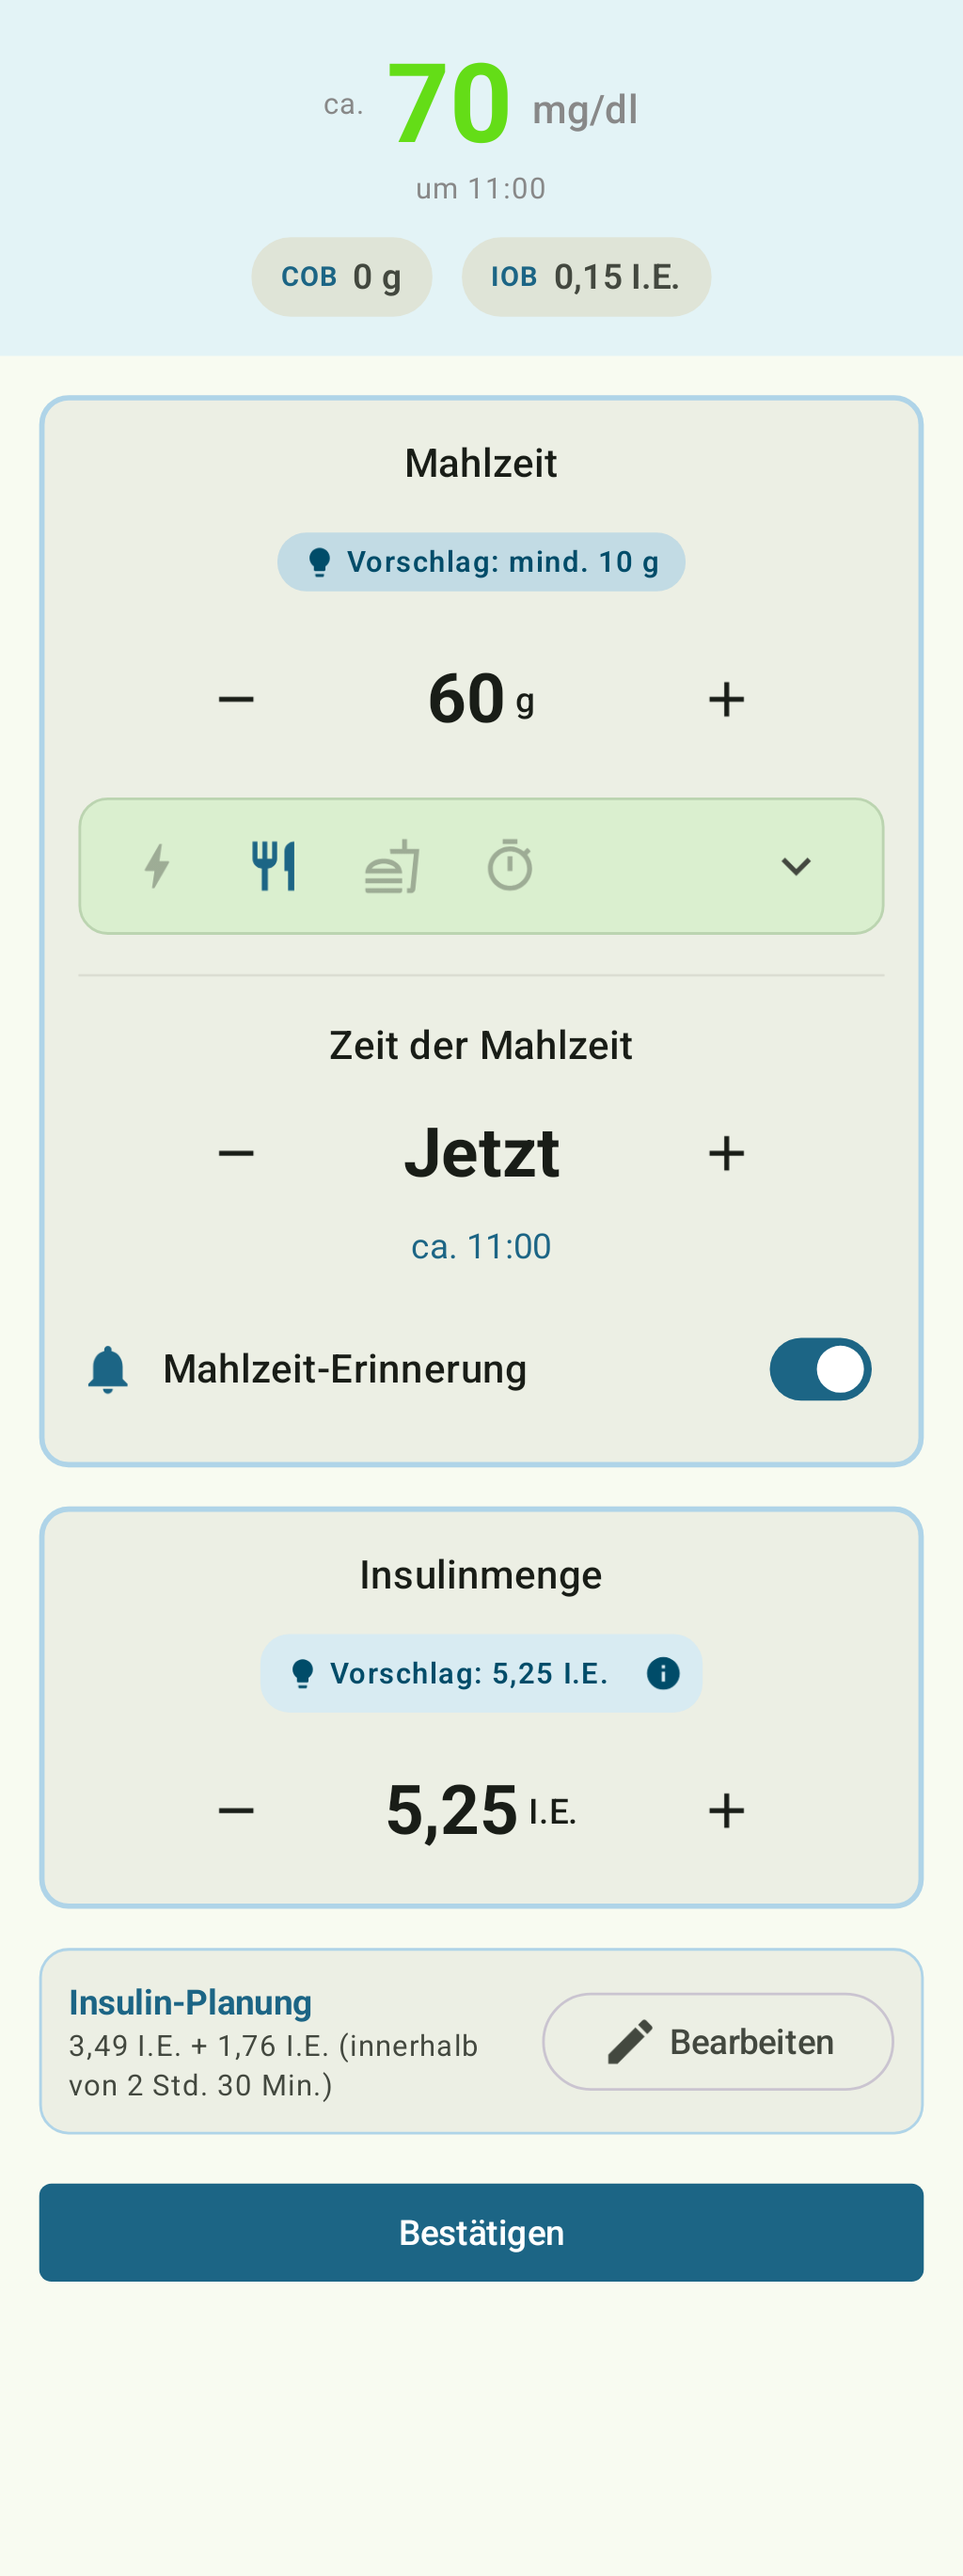
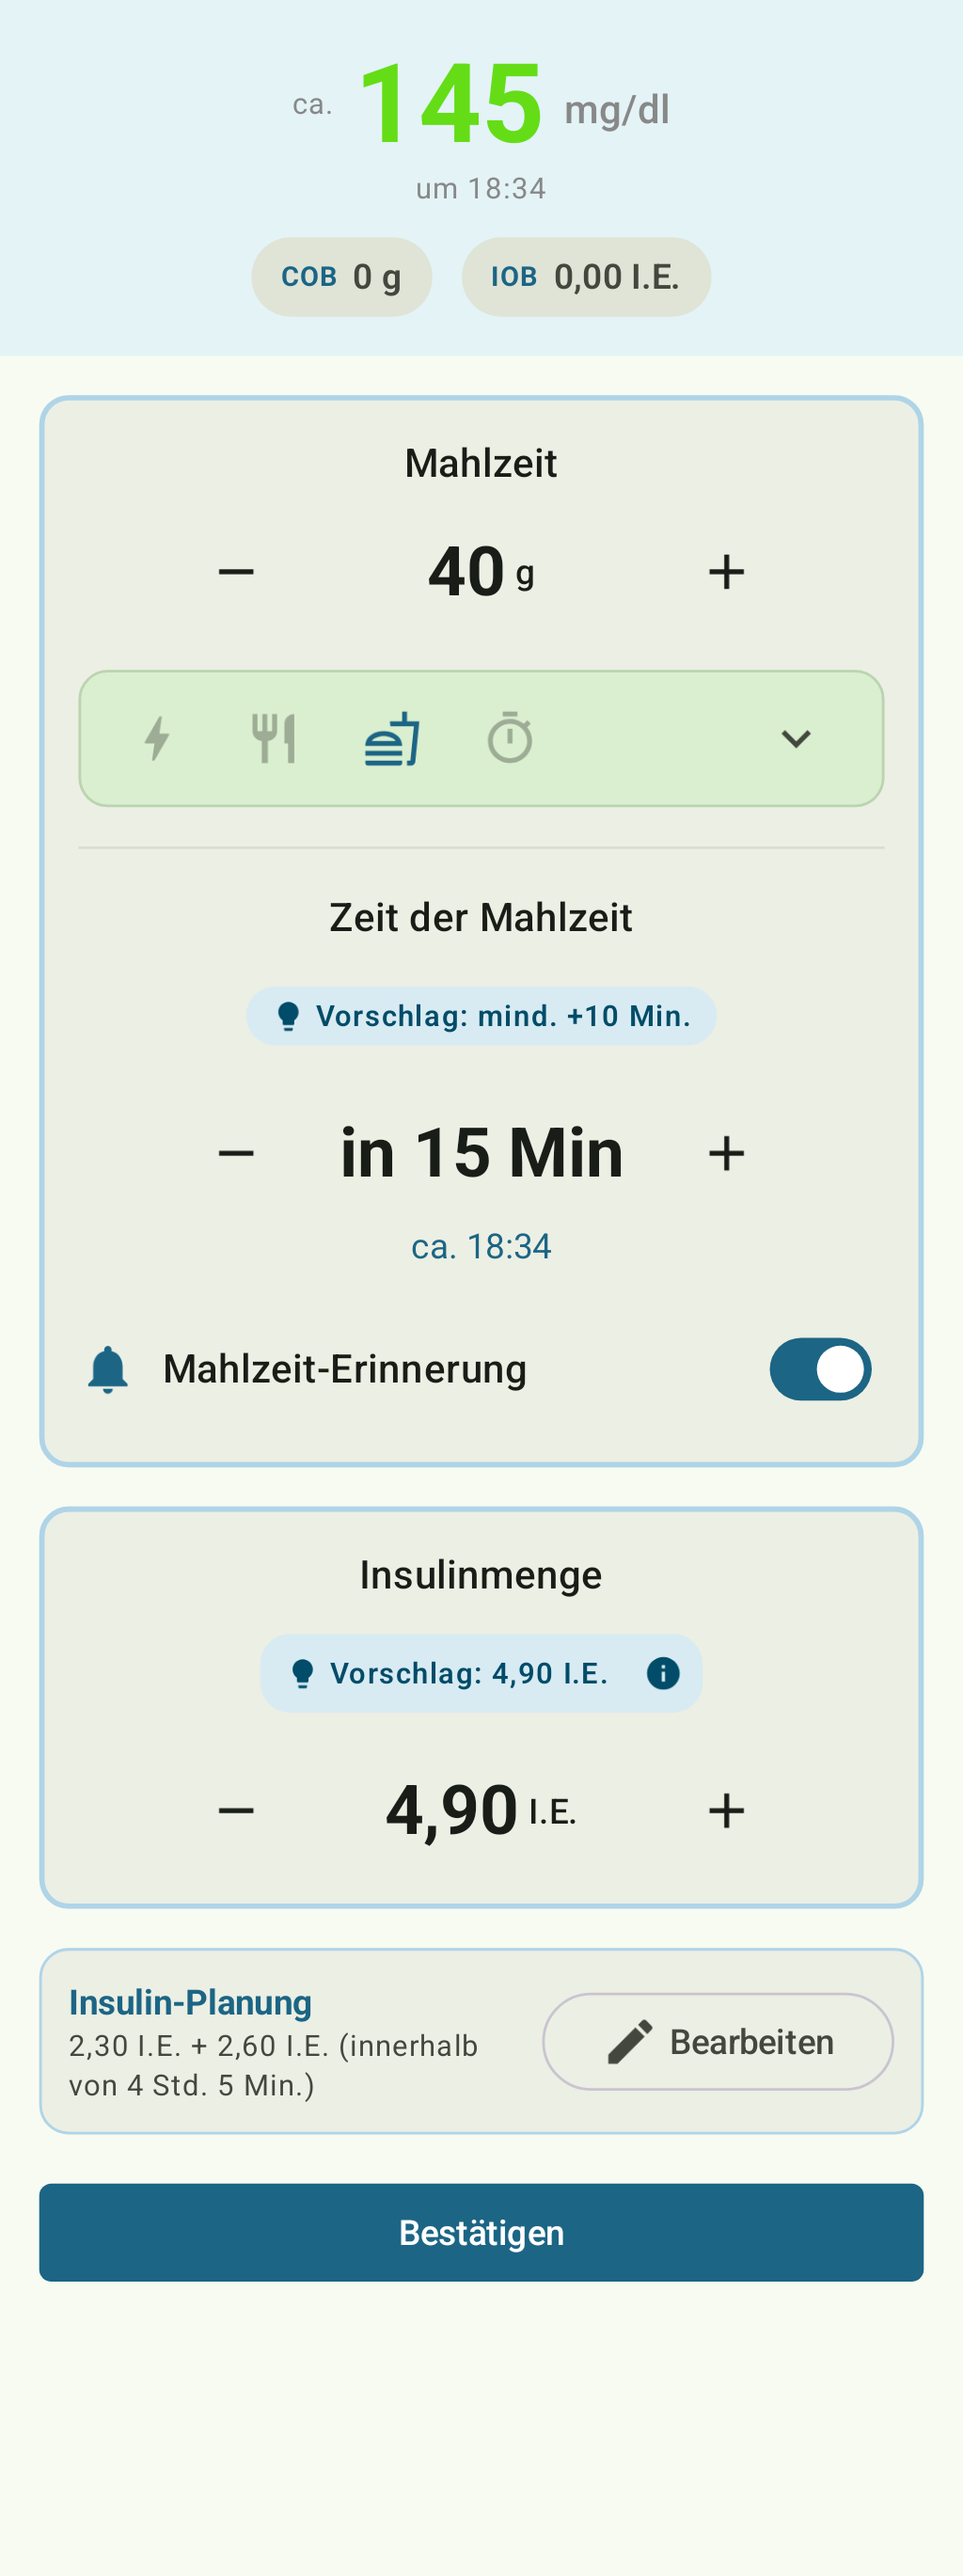
Improve screenshots of MealCorrectionBolusScreen

diff --git a/ui/src/main/kotlin/de/dh/daps/ui/screens/mealcorrectionbolus/MealCorrectionBolusScreen.kt b/ui/src/main/kotlin/de/dh/daps/ui/screens/mealcorrectionbolus/MealCorrectionBolusScreen.kt
@@ -46,8 +46,8 @@ import androidx.compose.runtime.setValue
 import androidx.compose.ui.Alignment
 import androidx.compose.ui.Modifier
 import androidx.compose.ui.graphics.Color
-import androidx.compose.ui.platform.LocalContext
 import androidx.compose.ui.graphics.RectangleShape
+import androidx.compose.ui.platform.LocalContext
 import androidx.compose.ui.res.stringResource
 import androidx.compose.ui.text.font.FontWeight
 import androidx.compose.ui.text.style.Hyphens
@@ -69,8 +69,8 @@ import de.dh.daps.core.aps.TreatmentLock
 import de.dh.daps.ui.R
 import de.dh.daps.ui.common.carbsValue
 import de.dh.daps.ui.common.composables.CarbsValueStepper
-import de.dh.daps.ui.common.composables.ImageCaptionWithSwitch
 import de.dh.daps.ui.common.composables.FramedCard
+import de.dh.daps.ui.common.composables.ImageCaptionWithSwitch
 import de.dh.daps.ui.common.composables.InsulinAmountStepper
 import de.dh.daps.ui.common.composables.PrimaryButton
 import de.dh.daps.ui.common.composables.StepperDefaults
@@ -948,7 +948,7 @@ fun MealCorrectionBolusZeroKePreview() {
 @Preview(showBackground = true, name = "Default Mode", heightDp = 1050)
 @Preview(showBackground = true, name = "Default Mode - Dark", uiMode = Configuration.UI_MODE_NIGHT_YES, heightDp = 1050)
 @Composable
-fun MealCorrectionBolusScreenshotPreview() {
+fun MealCorrectionBolusScreenshotLowPreview() {
     val sampleMealTypes = getDefaultMealTypes(LocalContext.current)
     val now = remember { Timestamp.now() }
     AppPreview {
@@ -995,6 +995,84 @@ fun MealCorrectionBolusScreenshotPreview() {
                         mealTimestamp = now,
                         now = now,
                         partWeight = 30
+                    )
+                ),
+                submissionStatus = SubmissionStatus.NotSubmitted,
+                isMealReminderAllowed = true,
+                isMealReminderEnabled = true
+            ),
+            onCarbsChange = {},
+            onMealTimeChange = {},
+            onApplySuggestedCarbs = {},
+            onApplySuggestedImi = {},
+            onMealTypeChange = {},
+            onManualBolusChange = {},
+            onOpenBolusPlanDialog = {},
+            onCloseBolusPlanDialog = {},
+            onUpdateBolusTime = { _, _ -> },
+            onUpdateBolusAmount = { _, _ -> },
+            onAddDeferredBolus = {},
+            onRemoveDeferredBolus = {},
+            onToggleMealReminder = {},
+            onRefreshProjections = {},
+            onClose = {},
+            onSubmit = {}
+        )
+    }
+}
+
+@Preview(showBackground = true, name = "Default Mode", heightDp = 1050)
+@Preview(showBackground = true, name = "Default Mode - Dark", uiMode = Configuration.UI_MODE_NIGHT_YES, heightDp = 1050)
+@Composable
+fun MealCorrectionBolusScreenshotHighPreview() {
+    val sampleMealTypes = getDefaultMealTypes(LocalContext.current)
+    val now = remember { Timestamp.now() }
+    val mealTimestamp = remember { now.plusMinutes(15) }
+    AppPreview {
+        MealCorrectionBolusContent(
+            uiState = MealCorrectionBolusUiState(
+                isLoading = false,
+                suggestedImi = Minutes(10),
+                suggestedCarbsGrams = 0.0,
+                input = MealInput(
+                    carbsGrams = 40.0,
+                    selectedMealType = sampleMealTypes[2],
+                    manualBolus = InsulinAmount(4.9),
+                    mealTimestamp = mealTimestamp,
+                    mealTimeFromNow = Minutes(15),
+                ),
+                mealTypes = sampleMealTypes,
+                projections = BolusProjections(
+                    timestamp = mealTimestamp,
+                    bg = BgValue.fromMgDl(145),
+                    isProjected = true,
+                    iob = InsulinAmount.ZERO,
+                    cob = 0.0,
+                    futureCarbs = 0.0
+                ),
+                targetBg = BgValue.fromMgDl(100),
+                isf = BgDelta.fromMgDl(50),
+                cr = 10.0,
+                calculation = BolusCalculationDetails(
+                    mealPart = InsulinAmount(4.0),
+                    correctionPart = InsulinAmount(0.9),
+                    iobPart = InsulinAmount.ZERO,
+                    proposedTotal = InsulinAmount(4.9),
+                ),
+                insulinPlan = listOf(
+                    PlannedInsulinUiModel.create(
+                        amount = InsulinAmount(2.3),
+                        timeFromMeal = Minutes(-10),
+                        mealTimestamp = mealTimestamp,
+                        now = now,
+                        partWeight = 35
+                    ),
+                    PlannedInsulinUiModel.create(
+                        amount = InsulinAmount(2.6),
+                        timeFromMeal = Minutes(230),
+                        mealTimestamp = mealTimestamp,
+                        now = now,
+                        partWeight = 65
                     )
                 ),
                 submissionStatus = SubmissionStatus.NotSubmitted,
